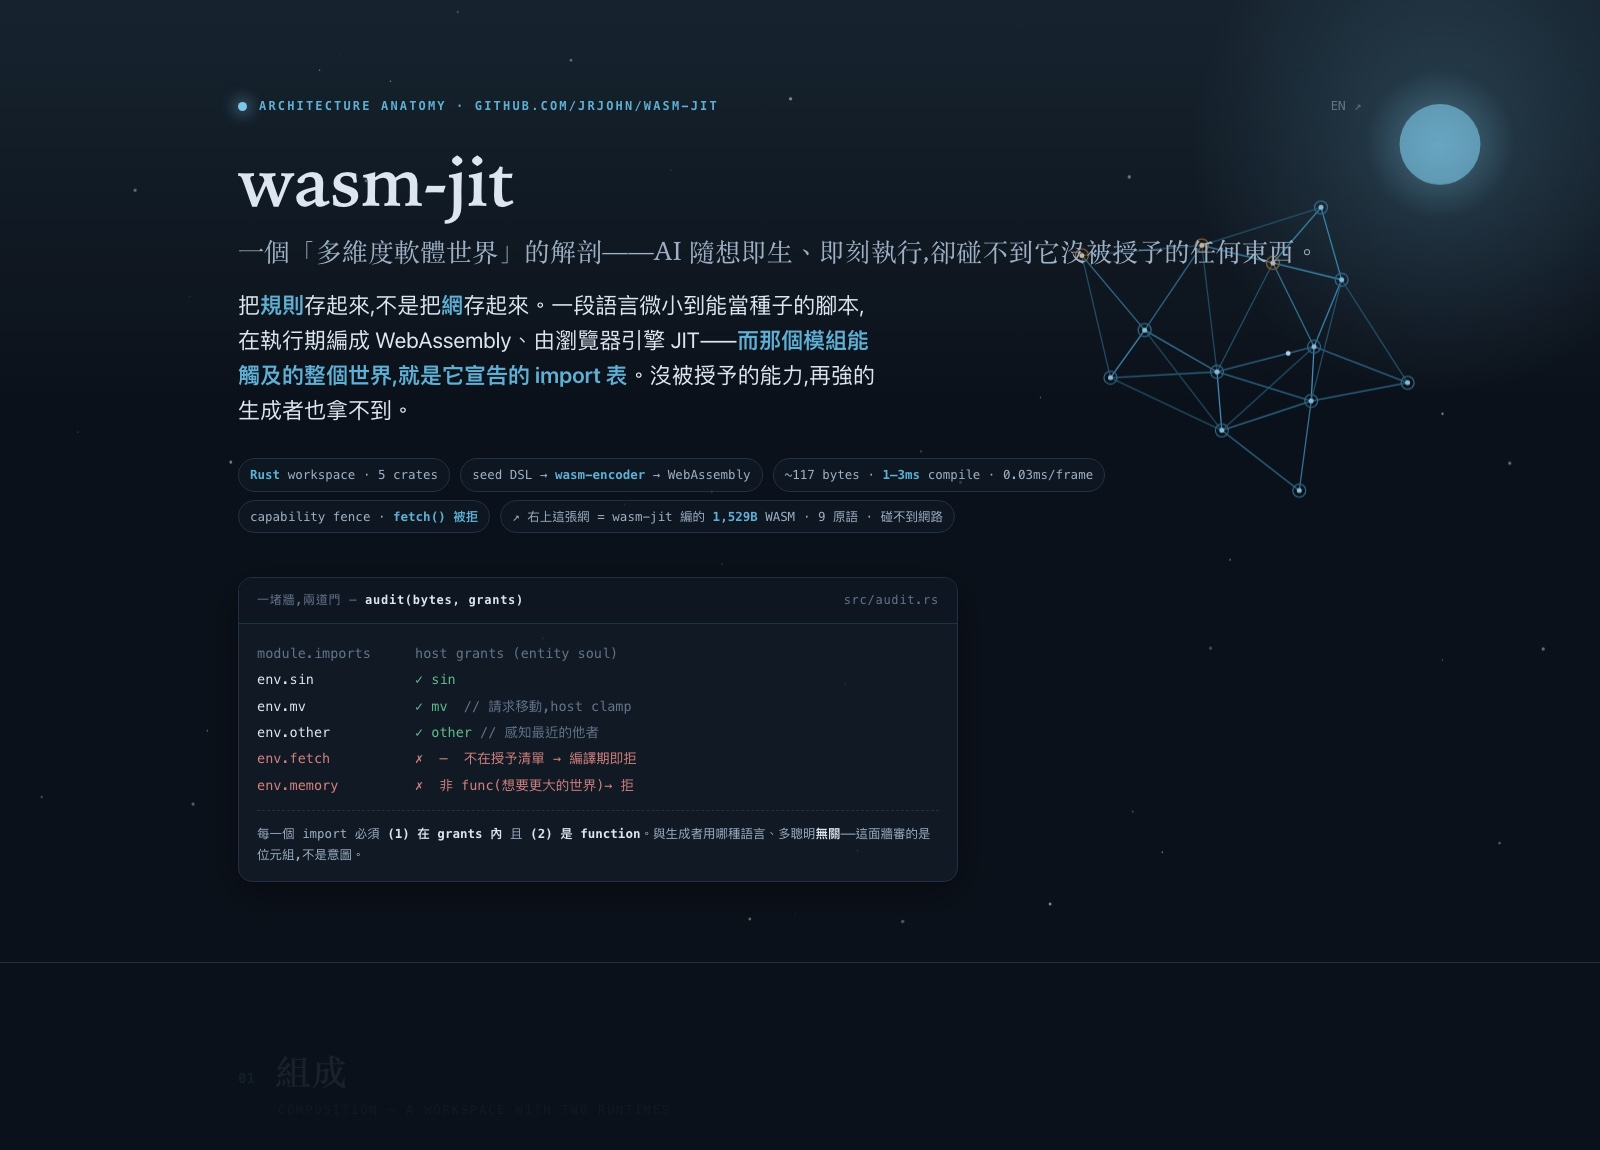
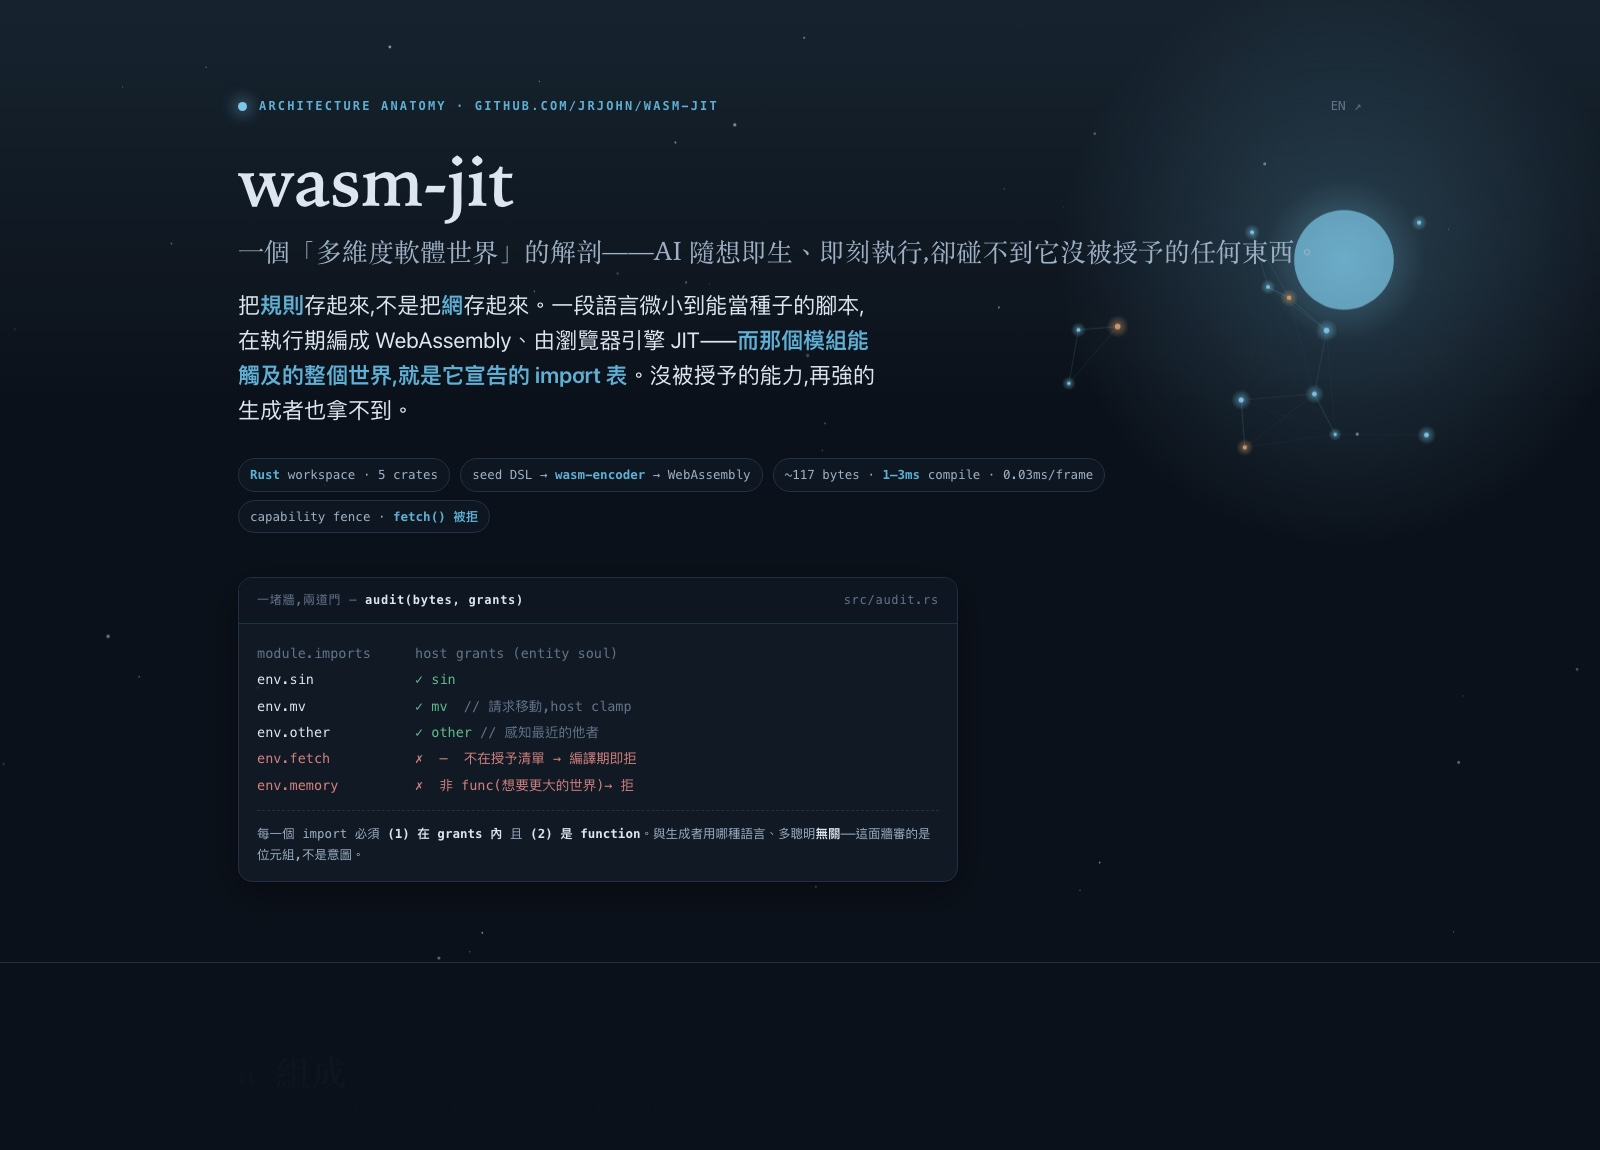
docs: restore the v1 (soft-glow) Indra's-net hero — preferred aesthetic
Revert the hero animation from the wasm-jit draw cell back to the v1 JS net:
node halos via radialGradient, ember souls, a solid water-blue moon, glowing
pulses. The draw DSL has no gradient primitive, so that soft glow needs the
host's radialGradient — a deliberate host-ambient choice. The wasm-jit draw
seed stays in the repo (examples/indranet.dsl + examples/draw_seed.rs) as a
runnable proof that wasm-jit can render the net; it's just not the hero.
Dropped the wasm self-reference meta tag; both 中/EN editions restored.

diff --git a/docs/architecture-anatomy.en.html b/docs/architecture-anatomy.en.html
@@ -177,7 +177,6 @@
       <span class="tag">seed DSL → <b>wasm-encoder</b> → WebAssembly</span>
       <span class="tag">~117 bytes · <b>1–3ms</b> compile · 0.03ms/frame</span>
       <span class="tag">capability fence · <b>fetch() rejected</b></span>
-      <span class="tag">↗ the net, top-right = a <b>1,529 B</b> WASM module wasm-jit compiled · 9 primitives · no network</span>
     </div>
 
     <div class="fence">
@@ -423,39 +422,52 @@
   function theme(){ var t=document.documentElement.getAttribute('data-theme');
     if(t) return t;
     return (window.matchMedia && window.matchMedia('(prefers-color-scheme:dark)').matches)?'dark':'light'; }
-  // The Indra's net below is a REAL wasm-jit `draw` cell — wasm-jit compiled it
-  // from a tiny seed (examples/indranet.dsl) and audited it: imports ⊆ the 9
-  // drawing primitives, so it CANNOT fetch and CANNOT hold state. The moon glow
-  // and snow are host ambient; the net is generated, sandboxed content — the very
-  // split this page is about (a fixed trusted host + manifested cells).
[1 lines of base64/hex data omitted]
-  function b64b(s){ var b=atob(s),a=new Uint8Array(b.length); for(var i=0;i<b.length;i++) a[i]=b.charCodeAt(i); return a; }
-  function col(x){ ctx.fillStyle=x; ctx.strokeStyle=x; }
-  var netEnv={ sin:Math.sin, cos:Math.cos,
-    hue:function(v){ col('hsl('+((((v%1)+1)%1)*360)+',62%,60%)'); },
-    rgb:function(r,g,b){ col('rgb('+(r*255|0)+','+(g*255|0)+','+(b*255|0)+')'); },
-    hsl:function(h,s,l){ col('hsl('+((((h%1)+1)%1)*360)+','+(s*100)+'%,'+(l*100)+'%)'); },
-    disc:function(x,y,r){ ctx.beginPath(); ctx.arc(x,y,Math.max(r,0),0,6.2832); ctx.fill(); },
-    ring:function(x,y,r){ ctx.beginPath(); ctx.arc(x,y,Math.max(r,0),0,6.2832); ctx.stroke(); },
-    arc:function(x,y,r,a0,a1){ ctx.beginPath(); ctx.arc(x,y,Math.max(r,0),a0,a1); ctx.stroke(); },
-    line:function(x1,y1,x2,y2){ ctx.beginPath(); ctx.moveTo(x1,y1); ctx.lineTo(x2,y2); ctx.stroke(); } };
-  var netRun=null; try{ netRun=new WebAssembly.Instance(new WebAssembly.Module(b64b(NET_B64)),{env:netEnv}).exports.run; }catch(e){}
-
-  var flakes=[], tt=0, moonX, moonY, moonR;
-  function size(){ var r=c.parentElement.getBoundingClientRect(); W=r.width; H=r.height; c.width=W*dpr; c.height=H*dpr; ctx.setTransform(dpr,0,0,dpr,0,0);
-    moonX=W*(W<720?0.82:0.9); moonY=H*0.15; moonR=Math.min(W,H)*0.1;
-    var n=Math.round(W*H/34000); flakes=[]; for(var i=0;i<n;i++) flakes.push({x:Math.random()*W,y:Math.random()*H,r:Math.random()*1.4+0.4,vy:Math.random()*0.42+0.15,vx:(Math.random()-0.5)*0.2,a:Math.random()*0.4+0.2}); }
+  // Indra's net: cells (blue) + souls (ember) beholding through light; edges
+  // form/break as nodes drift (繫緣 — relations are transient); light pulses
+  // travel edge to edge and flare on arrival (shared-light prediction).
+  var flakes=[], nodes=[], edges=[], pulses=[], tt=0, cx,cy,S,D, moonX,moonY,moonR, lastSpawn=0, spawnGap=0.7;
+  function rnd(a,b){ return a+(b-a)*Math.random(); }
+  function build(){
+    cx=W*(W<720?0.72:0.785); cy=H*0.35; S=Math.min(W,H)*0.27;
+    moonX=W*(W<720?0.80:0.84); moonY=H*0.27; moonR=Math.min(W,H)*0.115; D=S*0.6;
+    var N=Math.max(9,Math.min(18,Math.round(W/120)));
+    nodes=[];
+    for(var i=0;i<N;i++){
+      var ang=rnd(0,6.2832), rad=(i%2?rnd(0.28,1.05):rnd(0.05,0.8))*S;
+      nodes.push({ bx:cx+Math.cos(ang)*rad, by:cy+Math.sin(ang)*rad*0.82,
+        ph:rnd(0,6.28), sp:rnd(0.12,0.34), am:rnd(7,17), ph2:rnd(0,6.28), sp2:rnd(0.08,0.26),
+        r:rnd(1.6,3.1), soul:(i%5===2), flare:0, x:0,y:0 });
+      nodes[i].x=nodes[i].bx; nodes[i].y=nodes[i].by;
+    }
+    pulses=[];
+    var n=Math.round(W*H/34000); flakes=[];
+    for(var k=0;k<n;k++) flakes.push({x:Math.random()*W,y:Math.random()*H,r:Math.random()*1.4+0.4,vy:Math.random()*0.42+0.15,vx:(Math.random()-0.5)*0.2,a:Math.random()*0.4+0.2});
+  }
+  function size(){ var r=c.parentElement.getBoundingClientRect(); W=r.width; H=r.height; c.width=W*dpr; c.height=H*dpr; ctx.setTransform(dpr,0,0,dpr,0,0); build(); }
+  function nearPairs(){ edges=[]; for(var i=0;i<nodes.length;i++) for(var j=i+1;j<nodes.length;j++){ var a=nodes[i],b=nodes[j],dx=a.x-b.x,dy=a.y-b.y,d=Math.sqrt(dx*dx+dy*dy); if(d<D) edges.push({a:i,b:j,w:1-d/D}); } }
+  function spawn(){ if(!edges.length) return; var e=edges[(Math.random()*edges.length)|0]; if(e.w<0.4) return; pulses.push({a:e.a,b:e.b,t:0,sp:rnd(0.012,0.022)}); }
   function frame(dt){
     var dark=theme()==='dark'; tt+=dt; ctx.clearRect(0,0,W,H);
-    // moon luminary — host ambient
     var moon=dark?'124,198,230':'95,176,212';
     var mg=ctx.createRadialGradient(moonX,moonY,0,moonX,moonY,moonR*2.6);
-    mg.addColorStop(0,'rgba('+moon+','+(dark?0.5:0.34)+')'); mg.addColorStop(0.3,'rgba('+moon+','+(dark?0.14:0.09)+')'); mg.addColorStop(1,'rgba('+moon+',0)');
+    mg.addColorStop(0,'rgba('+moon+','+(dark?0.5:0.34)+')'); mg.addColorStop(0.28,'rgba('+moon+','+(dark?0.16:0.1)+')'); mg.addColorStop(1,'rgba('+moon+',0)');
     ctx.fillStyle=mg; ctx.beginPath(); ctx.arc(moonX,moonY,moonR*2.6,0,7); ctx.fill();
-    ctx.fillStyle='rgba('+moon+','+(dark?0.62:0.42)+')'; ctx.beginPath(); ctx.arc(moonX,moonY,moonR*0.42,0,7); ctx.fill();
-    // the net — a real wasm-jit cell drawing itself, sandboxed to 9 primitives
-    if(netRun){ ctx.save(); ctx.lineWidth=1.3; ctx.lineCap='round'; try{ netRun(tt,W,H); }catch(e){} ctx.restore(); }
-    // snow — host ambient
+    ctx.fillStyle='rgba('+moon+','+(dark?0.7:0.48)+')'; ctx.beginPath(); ctx.arc(moonX,moonY,moonR*0.45,0,7); ctx.fill();
+    for(var i=0;i<nodes.length;i++){ var nd=nodes[i]; nd.x=nd.bx+Math.cos(nd.ph+tt*nd.sp)*nd.am; nd.y=nd.by+Math.sin(nd.ph2+tt*nd.sp2)*nd.am*0.8; if(nd.flare>0) nd.flare-=dt*1.7; }
+    nearPairs();
+    var blue=dark?'124,198,230':'33,122,158', emb=dark?'210,154,104':'176,111,64';
+    for(var k=0;k<edges.length;k++){ var e=edges[k],a=nodes[e.a],b=nodes[e.b]; ctx.strokeStyle='rgba('+blue+','+(e.w*(dark?0.3:0.26))+')'; ctx.lineWidth=e.w*1.1; ctx.beginPath(); ctx.moveTo(a.x,a.y); ctx.lineTo(b.x,b.y); ctx.stroke(); }
+    if(reduce && !pulses.length && edges.length){ for(var q=0;q<Math.min(3,edges.length);q++){ var eq=edges[(q*5+1)%edges.length]; pulses.push({a:eq.a,b:eq.b,t:0.35+q*0.2,sp:0}); } }
+    if(!reduce && tt-lastSpawn>spawnGap){ spawn(); lastSpawn=tt; spawnGap=rnd(0.5,1.15); }
+    var pc=dark?'190,232,250':'46,130,170';
+    for(var p=pulses.length-1;p>=0;p--){ var pu=pulses[p],pa=nodes[pu.a],pb=nodes[pu.b]; if(!reduce) pu.t+=pu.sp*(dt*60);
+      var x=pa.x+(pb.x-pa.x)*pu.t, y=pa.y+(pb.y-pa.y)*pu.t;
+      var gg=ctx.createRadialGradient(x,y,0,x,y,8); gg.addColorStop(0,'rgba('+pc+',0.55)'); gg.addColorStop(1,'rgba('+pc+',0)'); ctx.fillStyle=gg; ctx.beginPath(); ctx.arc(x,y,8,0,7); ctx.fill();
+      ctx.fillStyle='rgba('+pc+',0.95)'; ctx.beginPath(); ctx.arc(x,y,2,0,7); ctx.fill();
+      if(!reduce && pu.t>=1){ nodes[pu.b].flare=1; pulses.splice(p,1); } }
+    for(var m=0;m<nodes.length;m++){ var q2=nodes[m], col=q2.soul?emb:blue, fl=Math.max(0,q2.flare), rr=q2.r+(q2.soul?0.5:0)+fl*2.2;
+      var ng=ctx.createRadialGradient(q2.x,q2.y,0,q2.x,q2.y,rr*4+fl*10); ng.addColorStop(0,'rgba('+col+','+(0.5+fl*0.4)+')'); ng.addColorStop(1,'rgba('+col+',0)'); ctx.fillStyle=ng; ctx.beginPath(); ctx.arc(q2.x,q2.y,rr*4+fl*10,0,7); ctx.fill();
+      ctx.fillStyle='rgba('+col+','+(dark?0.95:0.88)+')'; ctx.beginPath(); ctx.arc(q2.x,q2.y,rr,0,7); ctx.fill(); }
     for(var s=0;s<flakes.length;s++){ var f=flakes[s]; ctx.fillStyle='rgba('+(dark?'220,232,244':'120,150,175')+','+f.a+')'; ctx.beginPath(); ctx.arc(f.x,f.y,f.r,0,7); ctx.fill();
       if(!reduce){ f.y+=f.vy; f.x+=f.vx; if(f.y>H+4){f.y=-4;f.x=Math.random()*W;} if(f.x<-4)f.x=W; if(f.x>W+4)f.x=0; } }
   }

diff --git a/docs/architecture-anatomy.html b/docs/architecture-anatomy.html
@@ -177,7 +177,6 @@
       <span class="tag">seed DSL → <b>wasm-encoder</b> → WebAssembly</span>
       <span class="tag">~117 bytes · <b>1–3ms</b> compile · 0.03ms/frame</span>
       <span class="tag">capability fence · <b>fetch() 被拒</b></span>
-      <span class="tag">↗ 右上這張網 = wasm-jit 編的 <b>1,529B</b> WASM · 9 原語 · 碰不到網路</span>
     </div>
 
     <div class="fence">
@@ -431,39 +430,52 @@
   function theme(){ var t=document.documentElement.getAttribute('data-theme');
     if(t) return t;
     return (window.matchMedia && window.matchMedia('(prefers-color-scheme:dark)').matches)?'dark':'light'; }
-  // The Indra's net below is a REAL wasm-jit `draw` cell — wasm-jit compiled it
-  // from a tiny seed (examples/indranet.dsl) and audited it: imports ⊆ the 9
-  // drawing primitives, so it CANNOT fetch and CANNOT hold state. The moon glow
-  // and snow are host ambient; the net is generated, sandboxed content — the very
-  // split this page is about (a fixed trusted host + manifested cells).
[1 lines of base64/hex data omitted]
-  function b64b(s){ var b=atob(s),a=new Uint8Array(b.length); for(var i=0;i<b.length;i++) a[i]=b.charCodeAt(i); return a; }
-  function col(x){ ctx.fillStyle=x; ctx.strokeStyle=x; }
-  var netEnv={ sin:Math.sin, cos:Math.cos,
-    hue:function(v){ col('hsl('+((((v%1)+1)%1)*360)+',62%,60%)'); },
-    rgb:function(r,g,b){ col('rgb('+(r*255|0)+','+(g*255|0)+','+(b*255|0)+')'); },
-    hsl:function(h,s,l){ col('hsl('+((((h%1)+1)%1)*360)+','+(s*100)+'%,'+(l*100)+'%)'); },
-    disc:function(x,y,r){ ctx.beginPath(); ctx.arc(x,y,Math.max(r,0),0,6.2832); ctx.fill(); },
-    ring:function(x,y,r){ ctx.beginPath(); ctx.arc(x,y,Math.max(r,0),0,6.2832); ctx.stroke(); },
-    arc:function(x,y,r,a0,a1){ ctx.beginPath(); ctx.arc(x,y,Math.max(r,0),a0,a1); ctx.stroke(); },
-    line:function(x1,y1,x2,y2){ ctx.beginPath(); ctx.moveTo(x1,y1); ctx.lineTo(x2,y2); ctx.stroke(); } };
-  var netRun=null; try{ netRun=new WebAssembly.Instance(new WebAssembly.Module(b64b(NET_B64)),{env:netEnv}).exports.run; }catch(e){}
-
-  var flakes=[], tt=0, moonX, moonY, moonR;
-  function size(){ var r=c.parentElement.getBoundingClientRect(); W=r.width; H=r.height; c.width=W*dpr; c.height=H*dpr; ctx.setTransform(dpr,0,0,dpr,0,0);
-    moonX=W*(W<720?0.82:0.9); moonY=H*0.15; moonR=Math.min(W,H)*0.1;
-    var n=Math.round(W*H/34000); flakes=[]; for(var i=0;i<n;i++) flakes.push({x:Math.random()*W,y:Math.random()*H,r:Math.random()*1.4+0.4,vy:Math.random()*0.42+0.15,vx:(Math.random()-0.5)*0.2,a:Math.random()*0.4+0.2}); }
+  // Indra's net: cells (blue) + souls (ember) beholding through light; edges
+  // form/break as nodes drift (繫緣 — relations are transient); light pulses
+  // travel edge to edge and flare on arrival (shared-light prediction).
+  var flakes=[], nodes=[], edges=[], pulses=[], tt=0, cx,cy,S,D, moonX,moonY,moonR, lastSpawn=0, spawnGap=0.7;
+  function rnd(a,b){ return a+(b-a)*Math.random(); }
+  function build(){
+    cx=W*(W<720?0.72:0.785); cy=H*0.35; S=Math.min(W,H)*0.27;
+    moonX=W*(W<720?0.80:0.84); moonY=H*0.27; moonR=Math.min(W,H)*0.115; D=S*0.6;
+    var N=Math.max(9,Math.min(18,Math.round(W/120)));
+    nodes=[];
+    for(var i=0;i<N;i++){
+      var ang=rnd(0,6.2832), rad=(i%2?rnd(0.28,1.05):rnd(0.05,0.8))*S;
+      nodes.push({ bx:cx+Math.cos(ang)*rad, by:cy+Math.sin(ang)*rad*0.82,
+        ph:rnd(0,6.28), sp:rnd(0.12,0.34), am:rnd(7,17), ph2:rnd(0,6.28), sp2:rnd(0.08,0.26),
+        r:rnd(1.6,3.1), soul:(i%5===2), flare:0, x:0,y:0 });
+      nodes[i].x=nodes[i].bx; nodes[i].y=nodes[i].by;
+    }
+    pulses=[];
+    var n=Math.round(W*H/34000); flakes=[];
+    for(var k=0;k<n;k++) flakes.push({x:Math.random()*W,y:Math.random()*H,r:Math.random()*1.4+0.4,vy:Math.random()*0.42+0.15,vx:(Math.random()-0.5)*0.2,a:Math.random()*0.4+0.2});
+  }
+  function size(){ var r=c.parentElement.getBoundingClientRect(); W=r.width; H=r.height; c.width=W*dpr; c.height=H*dpr; ctx.setTransform(dpr,0,0,dpr,0,0); build(); }
+  function nearPairs(){ edges=[]; for(var i=0;i<nodes.length;i++) for(var j=i+1;j<nodes.length;j++){ var a=nodes[i],b=nodes[j],dx=a.x-b.x,dy=a.y-b.y,d=Math.sqrt(dx*dx+dy*dy); if(d<D) edges.push({a:i,b:j,w:1-d/D}); } }
+  function spawn(){ if(!edges.length) return; var e=edges[(Math.random()*edges.length)|0]; if(e.w<0.4) return; pulses.push({a:e.a,b:e.b,t:0,sp:rnd(0.012,0.022)}); }
   function frame(dt){
     var dark=theme()==='dark'; tt+=dt; ctx.clearRect(0,0,W,H);
-    // moon luminary — host ambient
     var moon=dark?'124,198,230':'95,176,212';
     var mg=ctx.createRadialGradient(moonX,moonY,0,moonX,moonY,moonR*2.6);
-    mg.addColorStop(0,'rgba('+moon+','+(dark?0.5:0.34)+')'); mg.addColorStop(0.3,'rgba('+moon+','+(dark?0.14:0.09)+')'); mg.addColorStop(1,'rgba('+moon+',0)');
+    mg.addColorStop(0,'rgba('+moon+','+(dark?0.5:0.34)+')'); mg.addColorStop(0.28,'rgba('+moon+','+(dark?0.16:0.1)+')'); mg.addColorStop(1,'rgba('+moon+',0)');
     ctx.fillStyle=mg; ctx.beginPath(); ctx.arc(moonX,moonY,moonR*2.6,0,7); ctx.fill();
-    ctx.fillStyle='rgba('+moon+','+(dark?0.62:0.42)+')'; ctx.beginPath(); ctx.arc(moonX,moonY,moonR*0.42,0,7); ctx.fill();
-    // the net — a real wasm-jit cell drawing itself, sandboxed to 9 primitives
-    if(netRun){ ctx.save(); ctx.lineWidth=1.3; ctx.lineCap='round'; try{ netRun(tt,W,H); }catch(e){} ctx.restore(); }
-    // snow — host ambient
+    ctx.fillStyle='rgba('+moon+','+(dark?0.7:0.48)+')'; ctx.beginPath(); ctx.arc(moonX,moonY,moonR*0.45,0,7); ctx.fill();
+    for(var i=0;i<nodes.length;i++){ var nd=nodes[i]; nd.x=nd.bx+Math.cos(nd.ph+tt*nd.sp)*nd.am; nd.y=nd.by+Math.sin(nd.ph2+tt*nd.sp2)*nd.am*0.8; if(nd.flare>0) nd.flare-=dt*1.7; }
+    nearPairs();
+    var blue=dark?'124,198,230':'33,122,158', emb=dark?'210,154,104':'176,111,64';
+    for(var k=0;k<edges.length;k++){ var e=edges[k],a=nodes[e.a],b=nodes[e.b]; ctx.strokeStyle='rgba('+blue+','+(e.w*(dark?0.3:0.26))+')'; ctx.lineWidth=e.w*1.1; ctx.beginPath(); ctx.moveTo(a.x,a.y); ctx.lineTo(b.x,b.y); ctx.stroke(); }
+    if(reduce && !pulses.length && edges.length){ for(var q=0;q<Math.min(3,edges.length);q++){ var eq=edges[(q*5+1)%edges.length]; pulses.push({a:eq.a,b:eq.b,t:0.35+q*0.2,sp:0}); } }
+    if(!reduce && tt-lastSpawn>spawnGap){ spawn(); lastSpawn=tt; spawnGap=rnd(0.5,1.15); }
+    var pc=dark?'190,232,250':'46,130,170';
+    for(var p=pulses.length-1;p>=0;p--){ var pu=pulses[p],pa=nodes[pu.a],pb=nodes[pu.b]; if(!reduce) pu.t+=pu.sp*(dt*60);
+      var x=pa.x+(pb.x-pa.x)*pu.t, y=pa.y+(pb.y-pa.y)*pu.t;
+      var gg=ctx.createRadialGradient(x,y,0,x,y,8); gg.addColorStop(0,'rgba('+pc+',0.55)'); gg.addColorStop(1,'rgba('+pc+',0)'); ctx.fillStyle=gg; ctx.beginPath(); ctx.arc(x,y,8,0,7); ctx.fill();
+      ctx.fillStyle='rgba('+pc+',0.95)'; ctx.beginPath(); ctx.arc(x,y,2,0,7); ctx.fill();
+      if(!reduce && pu.t>=1){ nodes[pu.b].flare=1; pulses.splice(p,1); } }
+    for(var m=0;m<nodes.length;m++){ var q2=nodes[m], col=q2.soul?emb:blue, fl=Math.max(0,q2.flare), rr=q2.r+(q2.soul?0.5:0)+fl*2.2;
+      var ng=ctx.createRadialGradient(q2.x,q2.y,0,q2.x,q2.y,rr*4+fl*10); ng.addColorStop(0,'rgba('+col+','+(0.5+fl*0.4)+')'); ng.addColorStop(1,'rgba('+col+',0)'); ctx.fillStyle=ng; ctx.beginPath(); ctx.arc(q2.x,q2.y,rr*4+fl*10,0,7); ctx.fill();
+      ctx.fillStyle='rgba('+col+','+(dark?0.95:0.88)+')'; ctx.beginPath(); ctx.arc(q2.x,q2.y,rr,0,7); ctx.fill(); }
     for(var s=0;s<flakes.length;s++){ var f=flakes[s]; ctx.fillStyle='rgba('+(dark?'220,232,244':'120,150,175')+','+f.a+')'; ctx.beginPath(); ctx.arc(f.x,f.y,f.r,0,7); ctx.fill();
       if(!reduce){ f.y+=f.vy; f.x+=f.vx; if(f.y>H+4){f.y=-4;f.x=Math.random()*W;} if(f.x<-4)f.x=W; if(f.x>W+4)f.x=0; } }
   }